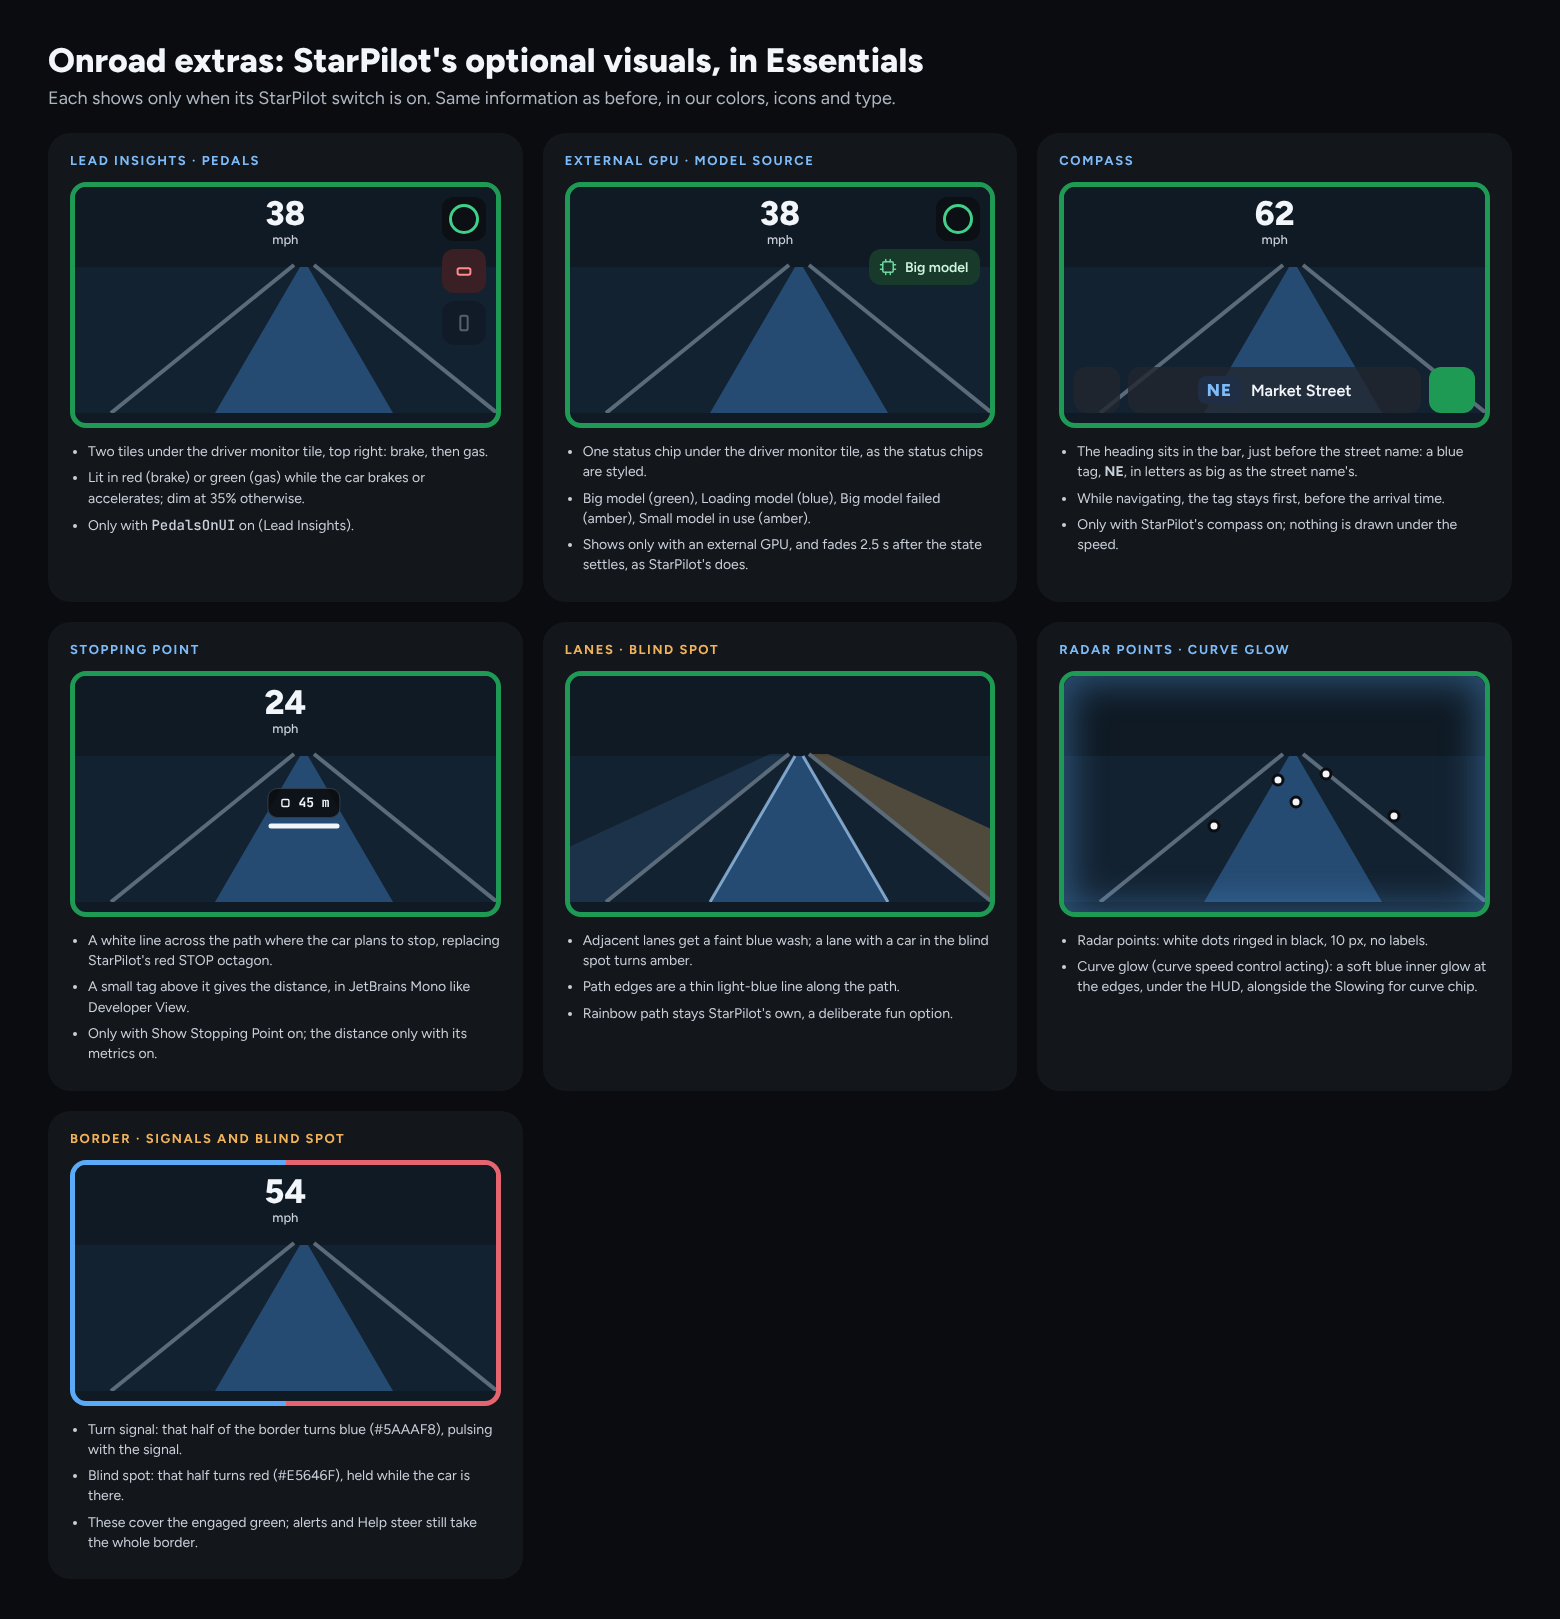
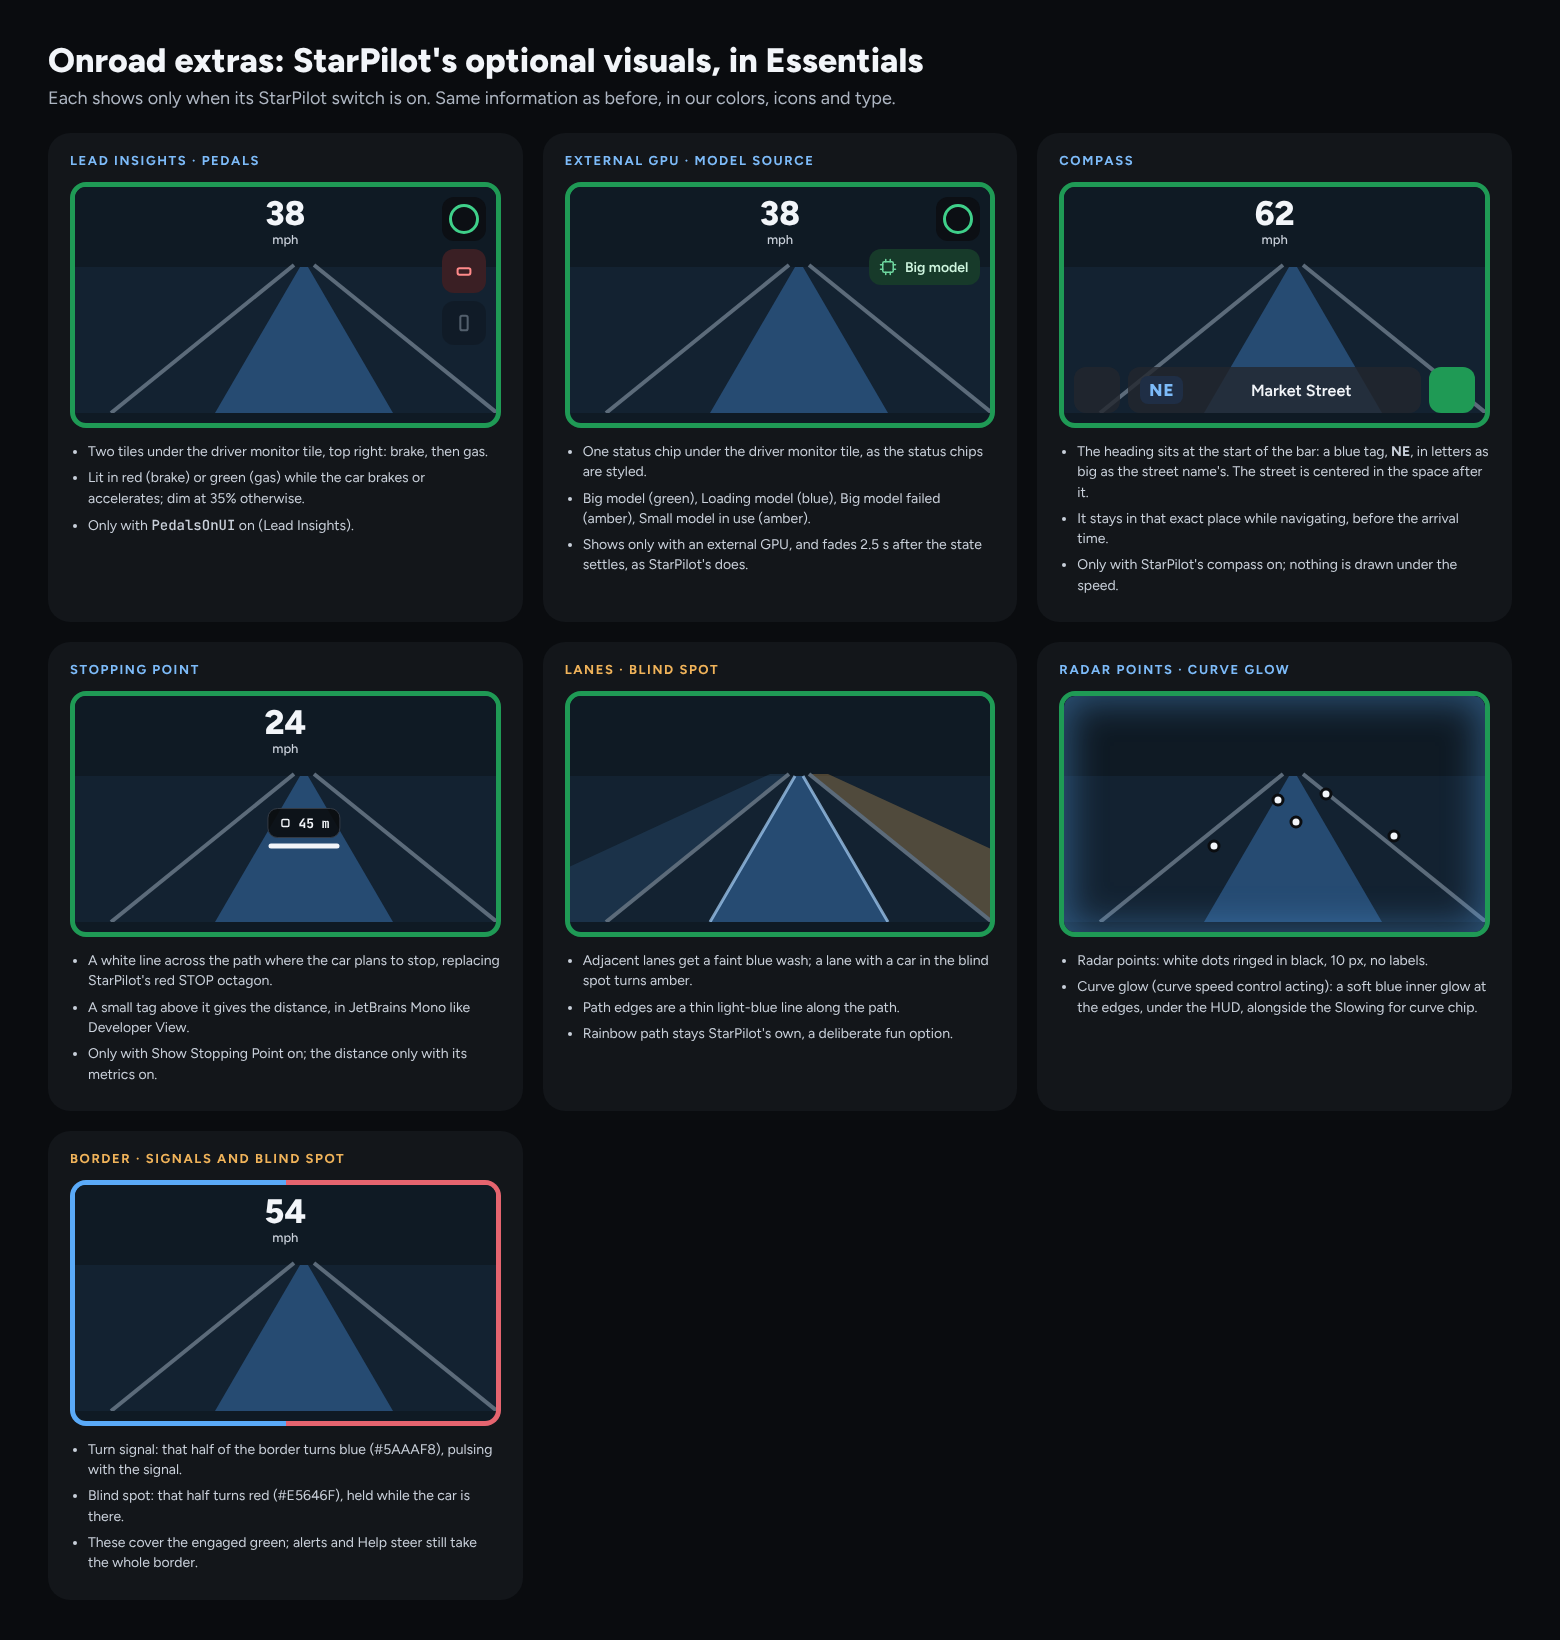
Compass tag at the start of the bar, with or without a route
Not navigating, the tag sat beside the centered street name; it now sits
where it does while navigating, and the street centers in the rest.

Claude-Session: https://claude.ai/code/session_01R4pPc2hcx88Dbjjec1p8WC

diff --git a/selfdrive/ui/tandem/design/onroadextras.html b/selfdrive/ui/tandem/design/onroadextras.html
@@ -59,9 +59,9 @@ a{color:#7DBBF9}a:hover{color:#A9D3FB}
           
         </svg>
         <div style="position: absolute; left: 50%; top: 10px; transform: translateX(-50%); text-align: center; font-weight: 800; font-size: 34px; line-height: 1;">62<div style="font-size: 13px; font-weight: 500; color: #C9D0DA; margin-top: 2px;">mph</div></div>
-        <div style="position: absolute; left: 10px; right: 10px; bottom: 10px; height: 46px; display: flex; gap: 8px;"><div style="width: 46px; border-radius: 12px; background: #23272ECC;"></div><div style="flex-grow: 1; border-radius: 12px; background: #23272ECC; display: flex; align-items: center; justify-content: center; gap: 10px; font-size: 16px; font-weight: 600;"><span style="font-size: 17px; font-weight: 800; letter-spacing: 1px; color: #7DBBF9; background: #1F2E45; border-radius: 8px; padding: 4px 9px;">NE</span><span>Market Street</span></div><div style="width: 46px; border-radius: 12px; background: #1F9A55;"></div></div>
+        <div style="position: absolute; left: 10px; right: 10px; bottom: 10px; height: 46px; display: flex; gap: 8px;"><div style="width: 46px; border-radius: 12px; background: #23272ECC;"></div><div style="flex-grow: 1; border-radius: 12px; background: #23272ECC; display: flex; align-items: center; gap: 10px; padding: 0 12px; font-size: 16px; font-weight: 600;"><span style="font-size: 17px; font-weight: 800; letter-spacing: 1px; color: #7DBBF9; background: #1F2E45; border-radius: 8px; padding: 4px 9px;">NE</span><span style="flex-grow: 1; text-align: center;">Market Street</span></div><div style="width: 46px; border-radius: 12px; background: #1F9A55;"></div></div>
       </div>
-      <ul style="margin: 0; padding-left: 18px; font-size: 14px; color: #C9D0DA; line-height: 1.45;"><li style="margin: 0 0 6px 0;">The heading sits in the bar, just before the street name: a blue tag, <b>NE</b>, in letters as big as the street name's.</li><li style="margin: 0 0 6px 0;">While navigating, the tag stays first, before the arrival time.</li><li style="margin: 0 0 6px 0;">Only with StarPilot's compass on; nothing is drawn under the speed.</li></ul>
+      <ul style="margin: 0; padding-left: 18px; font-size: 14px; color: #C9D0DA; line-height: 1.45;"><li style="margin: 0 0 6px 0;">The heading sits at the start of the bar: a blue tag, <b>NE</b>, in letters as big as the street name's. The street is centered in the space after it.</li><li style="margin: 0 0 6px 0;">It stays in that exact place while navigating, before the arrival time.</li><li style="margin: 0 0 6px 0;">Only with StarPilot's compass on; nothing is drawn under the speed.</li></ul>
     </div>
     <div style="background: #13161A; border-radius: 22px; padding: 20px 22px; display: flex; flex-direction: column; gap: 14px;">
       <span style="font-size: 13px; font-weight: 700; letter-spacing: 1.6px; color: #7DBBF9;">STOPPING POINT</span>

diff --git a/selfdrive/ui/tandem/onroad/layers.py b/selfdrive/ui/tandem/onroad/layers.py
@@ -104,8 +104,13 @@ class OnroadBar(Component):
       if state.street and x + T.px(80) < body.x + body.width:
         rl.draw_rectangle_rec(rl.Rectangle(x, body.y + body.height * 0.25, T.DIVIDER, body.height * 0.5), T.CONTROL)
         self._street(rl.Rectangle(x + T.px(22), body.y, body.x + body.width - x - T.px(22), body.height), state.street, Align.START)
-    elif state.street or state.heading:
-      self._street(inset(center, x=T.px(16)), state.street, Align.CENTER, state.heading)
+    else:
+      # The compass tag sits where it does while navigating (first, at the start); the street centers in what's left.
+      body = inset(center, x=T.px(22))
+      if state.heading:
+        body = inset(body, left=heading_tag(body, state.heading) + T.px(20))
+      if state.street:
+        self._street(body, state.street, Align.CENTER)
 
     engage = r["engage"]
     draw.fill(engage, ENGAGED if state.engaged else CONTROL_FILL, T.RADIUS_CARD)
@@ -114,16 +119,12 @@ class OnroadBar(Component):
 
 
   @staticmethod
-  def _street(rect: rl.Rectangle, street: str, h: Align, heading: str = "") -> None:
-    """The road icon, the compass tag when on, and the street name, centered (or at the start) in rect, elided to fit."""
-    tag_w = heading_width(heading) + T.px(12) if heading else 0
-    text_w = min(rect.width - T.px(40) - tag_w, draw.text_width(street, STREET_SIZE, T.FONT_BOLD)) if street else 0
-    block = place(rect, T.px(40) + tag_w + text_w, rect.height, h)
+  def _street(rect: rl.Rectangle, street: str, h: Align) -> None:
+    """The road icon and the street name, centered (or at the start) in rect, elided to fit."""
+    text_w = min(rect.width - T.px(40), draw.text_width(street, STREET_SIZE, T.FONT_BOLD))
+    block = place(rect, T.px(40) + text_w, rect.height, h)
     draw.icon(rl.Rectangle(block.x, block.y, T.px(28), block.height), "road", T.ACCENT_TEXT, T.px(22))
-    if heading:
-      heading_tag(rl.Rectangle(block.x + T.px(40), block.y, tag_w, block.height), heading)
-    if street:
-      draw.text(inset(block, left=T.px(40) + tag_w), street, STREET_SIZE, T.TEXT, T.FONT_BOLD)
+    draw.text(inset(block, left=T.px(40)), draw.fit(street, STREET_SIZE, T.FONT_BOLD, text_w), STREET_SIZE, T.TEXT, T.FONT_BOLD)
 
 
 STREET_SIZE = T.font_px(22)   # the street name, and the compass tag beside it at the same size

diff --git a/selfdrive/ui/tandem/README.md b/selfdrive/ui/tandem/README.md
@@ -185,7 +185,7 @@ These are reached from a row or button, never as a tab:
 - **First-run setup** (`setup.py`): three questions, or Use defaults. Either way it applies the Essentials defaults first. Home shows it once, as soon as onboarding has closed; a marker file beside the params folder records that it's done, so no new param key is needed.
 
 What these don't do yet:
-- **Onroad extras** (`onroad/extras.py`, `design/onroadextras.html`): StarPilot's optional visuals, each still under its own switch, drawn in Essentials: pedal tiles (PedalsOnUI) and the external-GPU model chip under the driver monitor tile (StarPilot's widget still decides the state and fade), the compass as a tag beside the street name, a stopping-point line with a distance tag, adjacent-lane and blind-spot washes, light-blue path edges, white radar dots, the curve glow in our blue, and signal (blue, blinking) and blind-spot (red) halves of the border. StarPilot's steering-torque border fill is left out; the steering arc shows the same. The rainbow path stays StarPilot's.
+- **Onroad extras** (`onroad/extras.py`, `design/onroadextras.html`): StarPilot's optional visuals, each still under its own switch, drawn in Essentials: pedal tiles (PedalsOnUI) and the external-GPU model chip under the driver monitor tile (StarPilot's widget still decides the state and fade), the compass as a tag at the start of the bar, in the same place with or without a route, a stopping-point line with a distance tag, adjacent-lane and blind-spot washes, light-blue path edges, white radar dots, the curve glow in our blue, and signal (blue, blinking) and blind-spot (red) halves of the border. StarPilot's steering-torque border fill is left out; the steering arc shows the same. The rainbow path stays StarPilot's.
 - **Developer View** (`onroad/developer.py`, `design/onroaddev.html`), in JetBrains Mono as the mock sets it: a panel on the right with LEAD (distance, gap, relative speed, radar or vision), DEVICE (CPU and temperature, GPU, RAM, FPS) and CONTROLS (curve speed, limit source, lane widths); a strip above the bar; Lead Insights' tag above the lead car; and the limit's source and offset under the sign. Values come from openpilot's and StarPilot's messages (`read()`). StarPilot's settings decide what shows: its developer sidebar switch for the panel, Developer UI for the rest, and each row's own switch (ShowCPU, NumericalTemp, ShowGPU, ShowMemoryUsage, FPSCounter, AdjacentPathMetrics, SpeedLimitSources; the last also covers the note under the sign), all in Tuner › Bundle Overrides. The strip shows up to five metrics picked there under Bar metrics (`STRIP_METRICS`, kept in the new `DeveloperStripMetrics` param, default the mock's accel, want, jerk, lat and delay), each given an equal share of the width; picking none hides it. `main.py` takes the panel and its width from `screens.py`.
 
 ## Third-party
